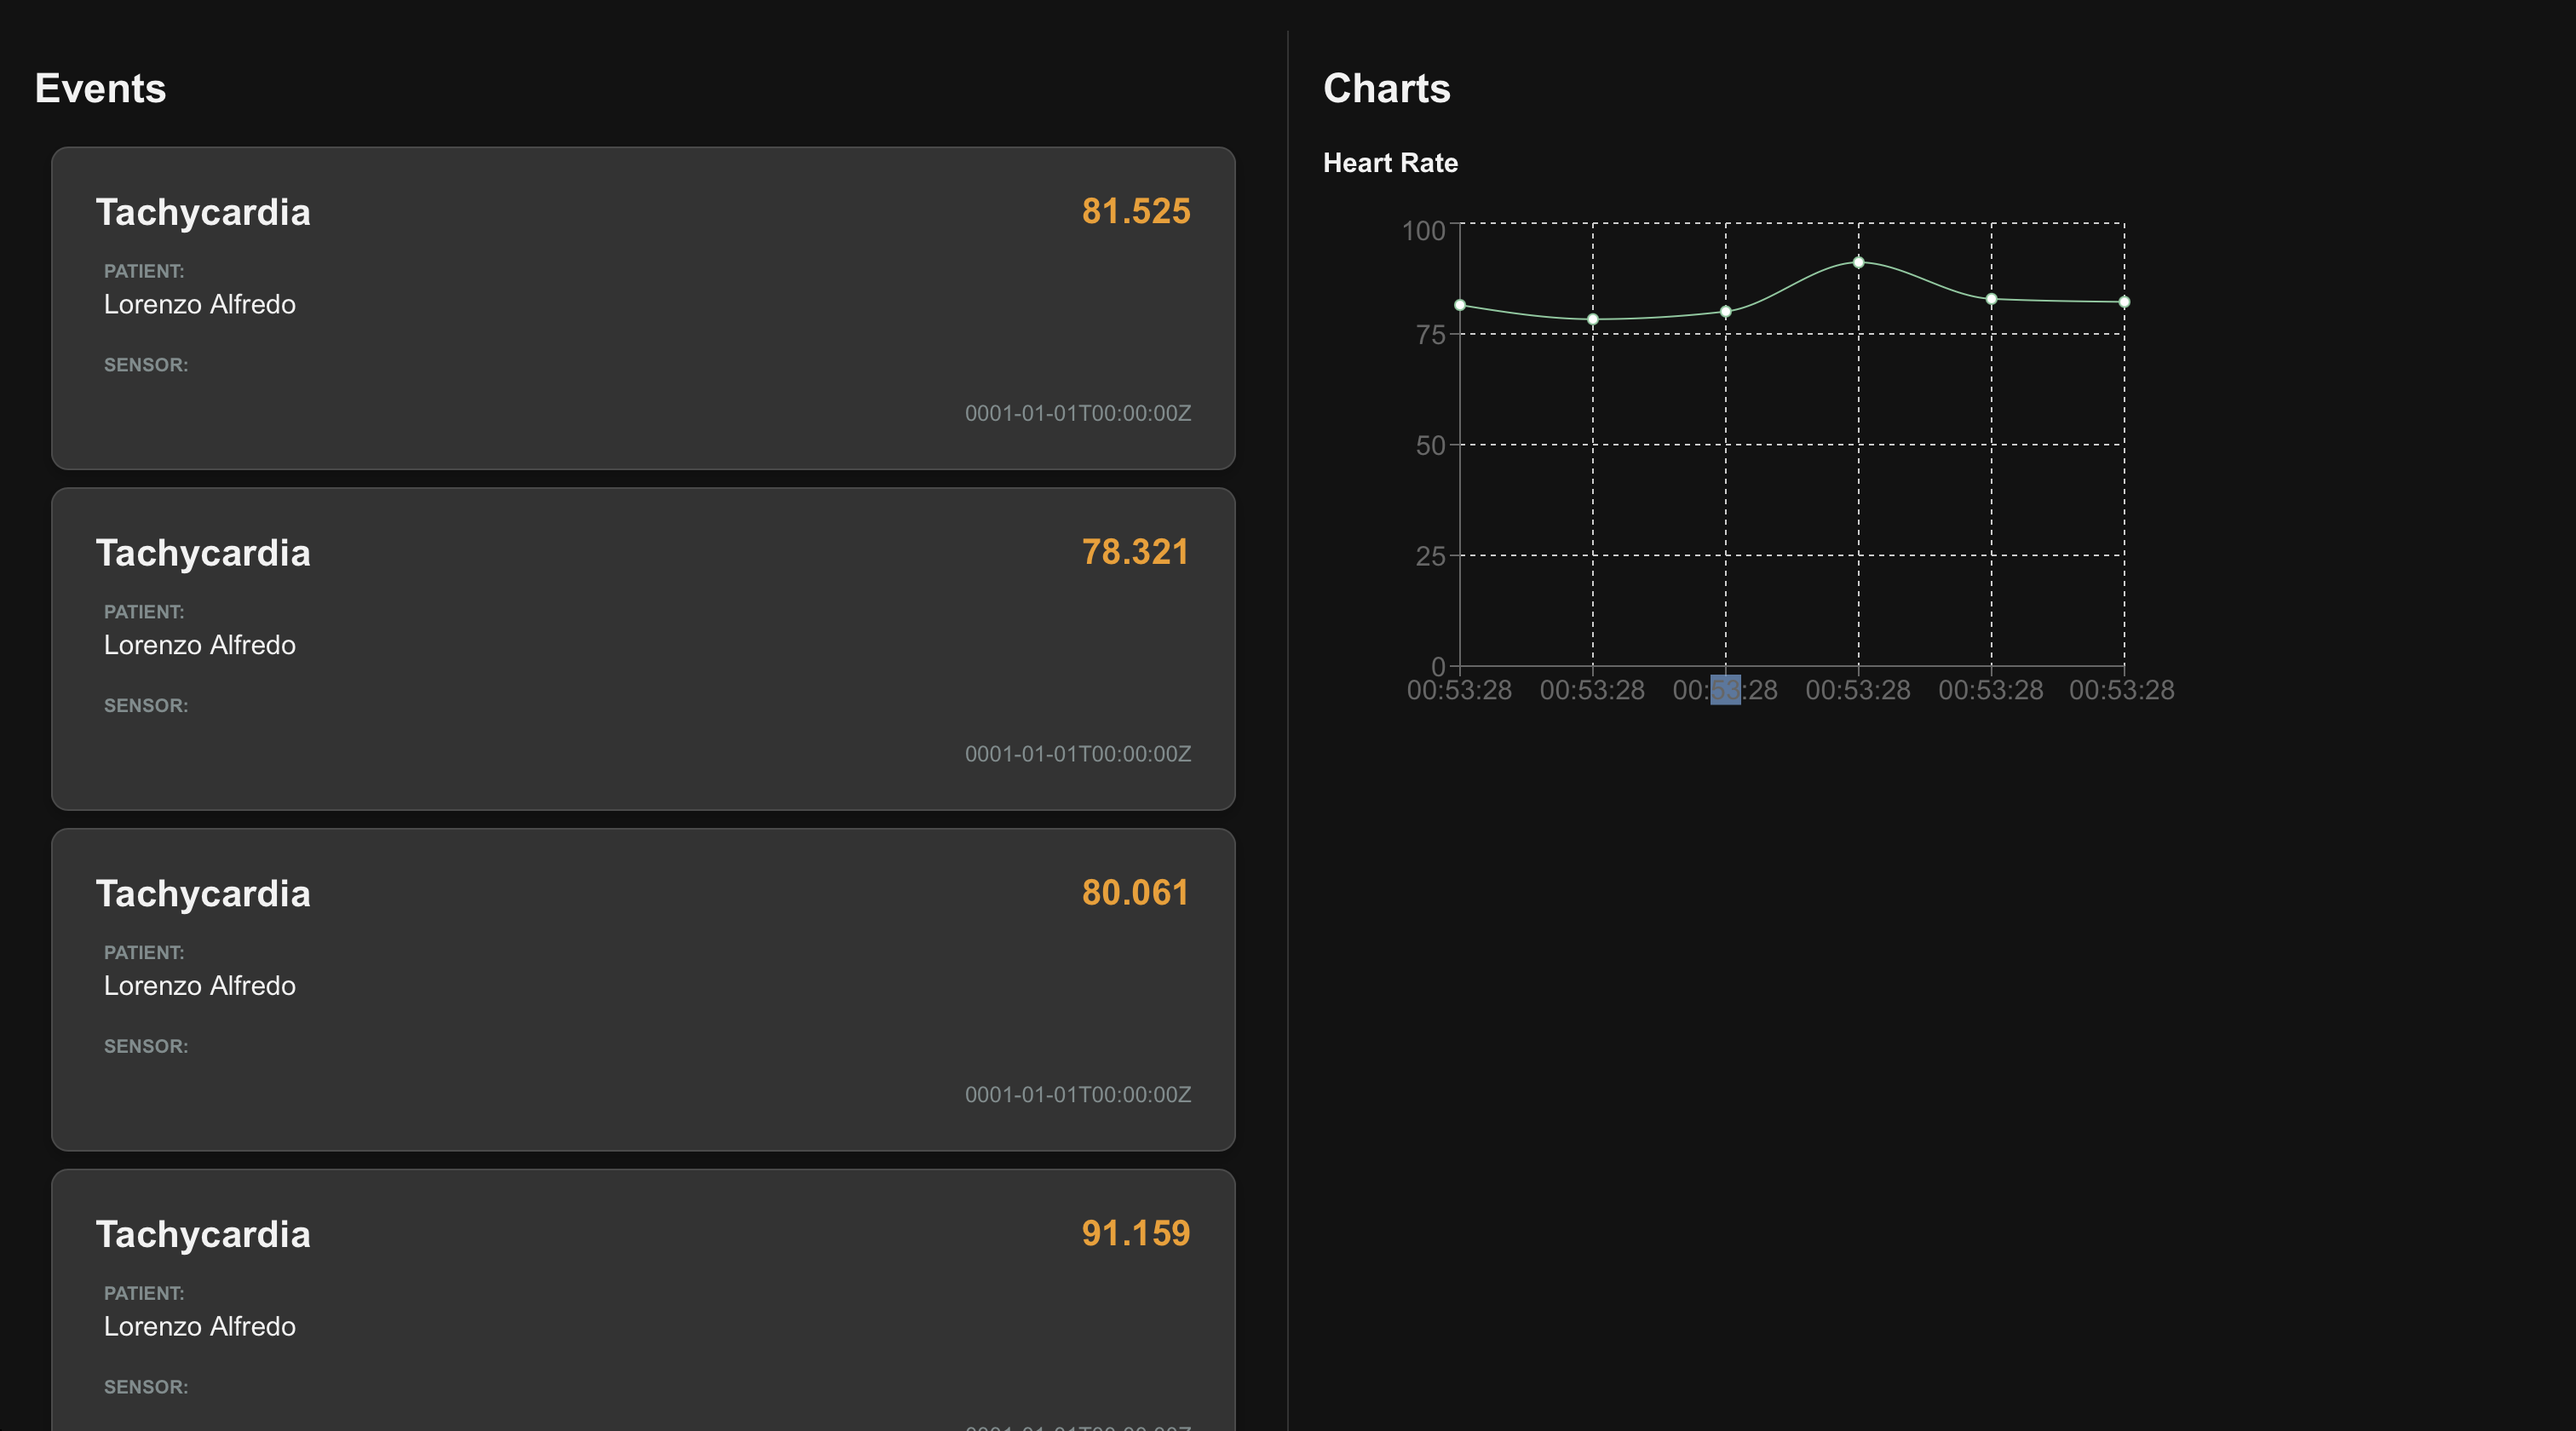
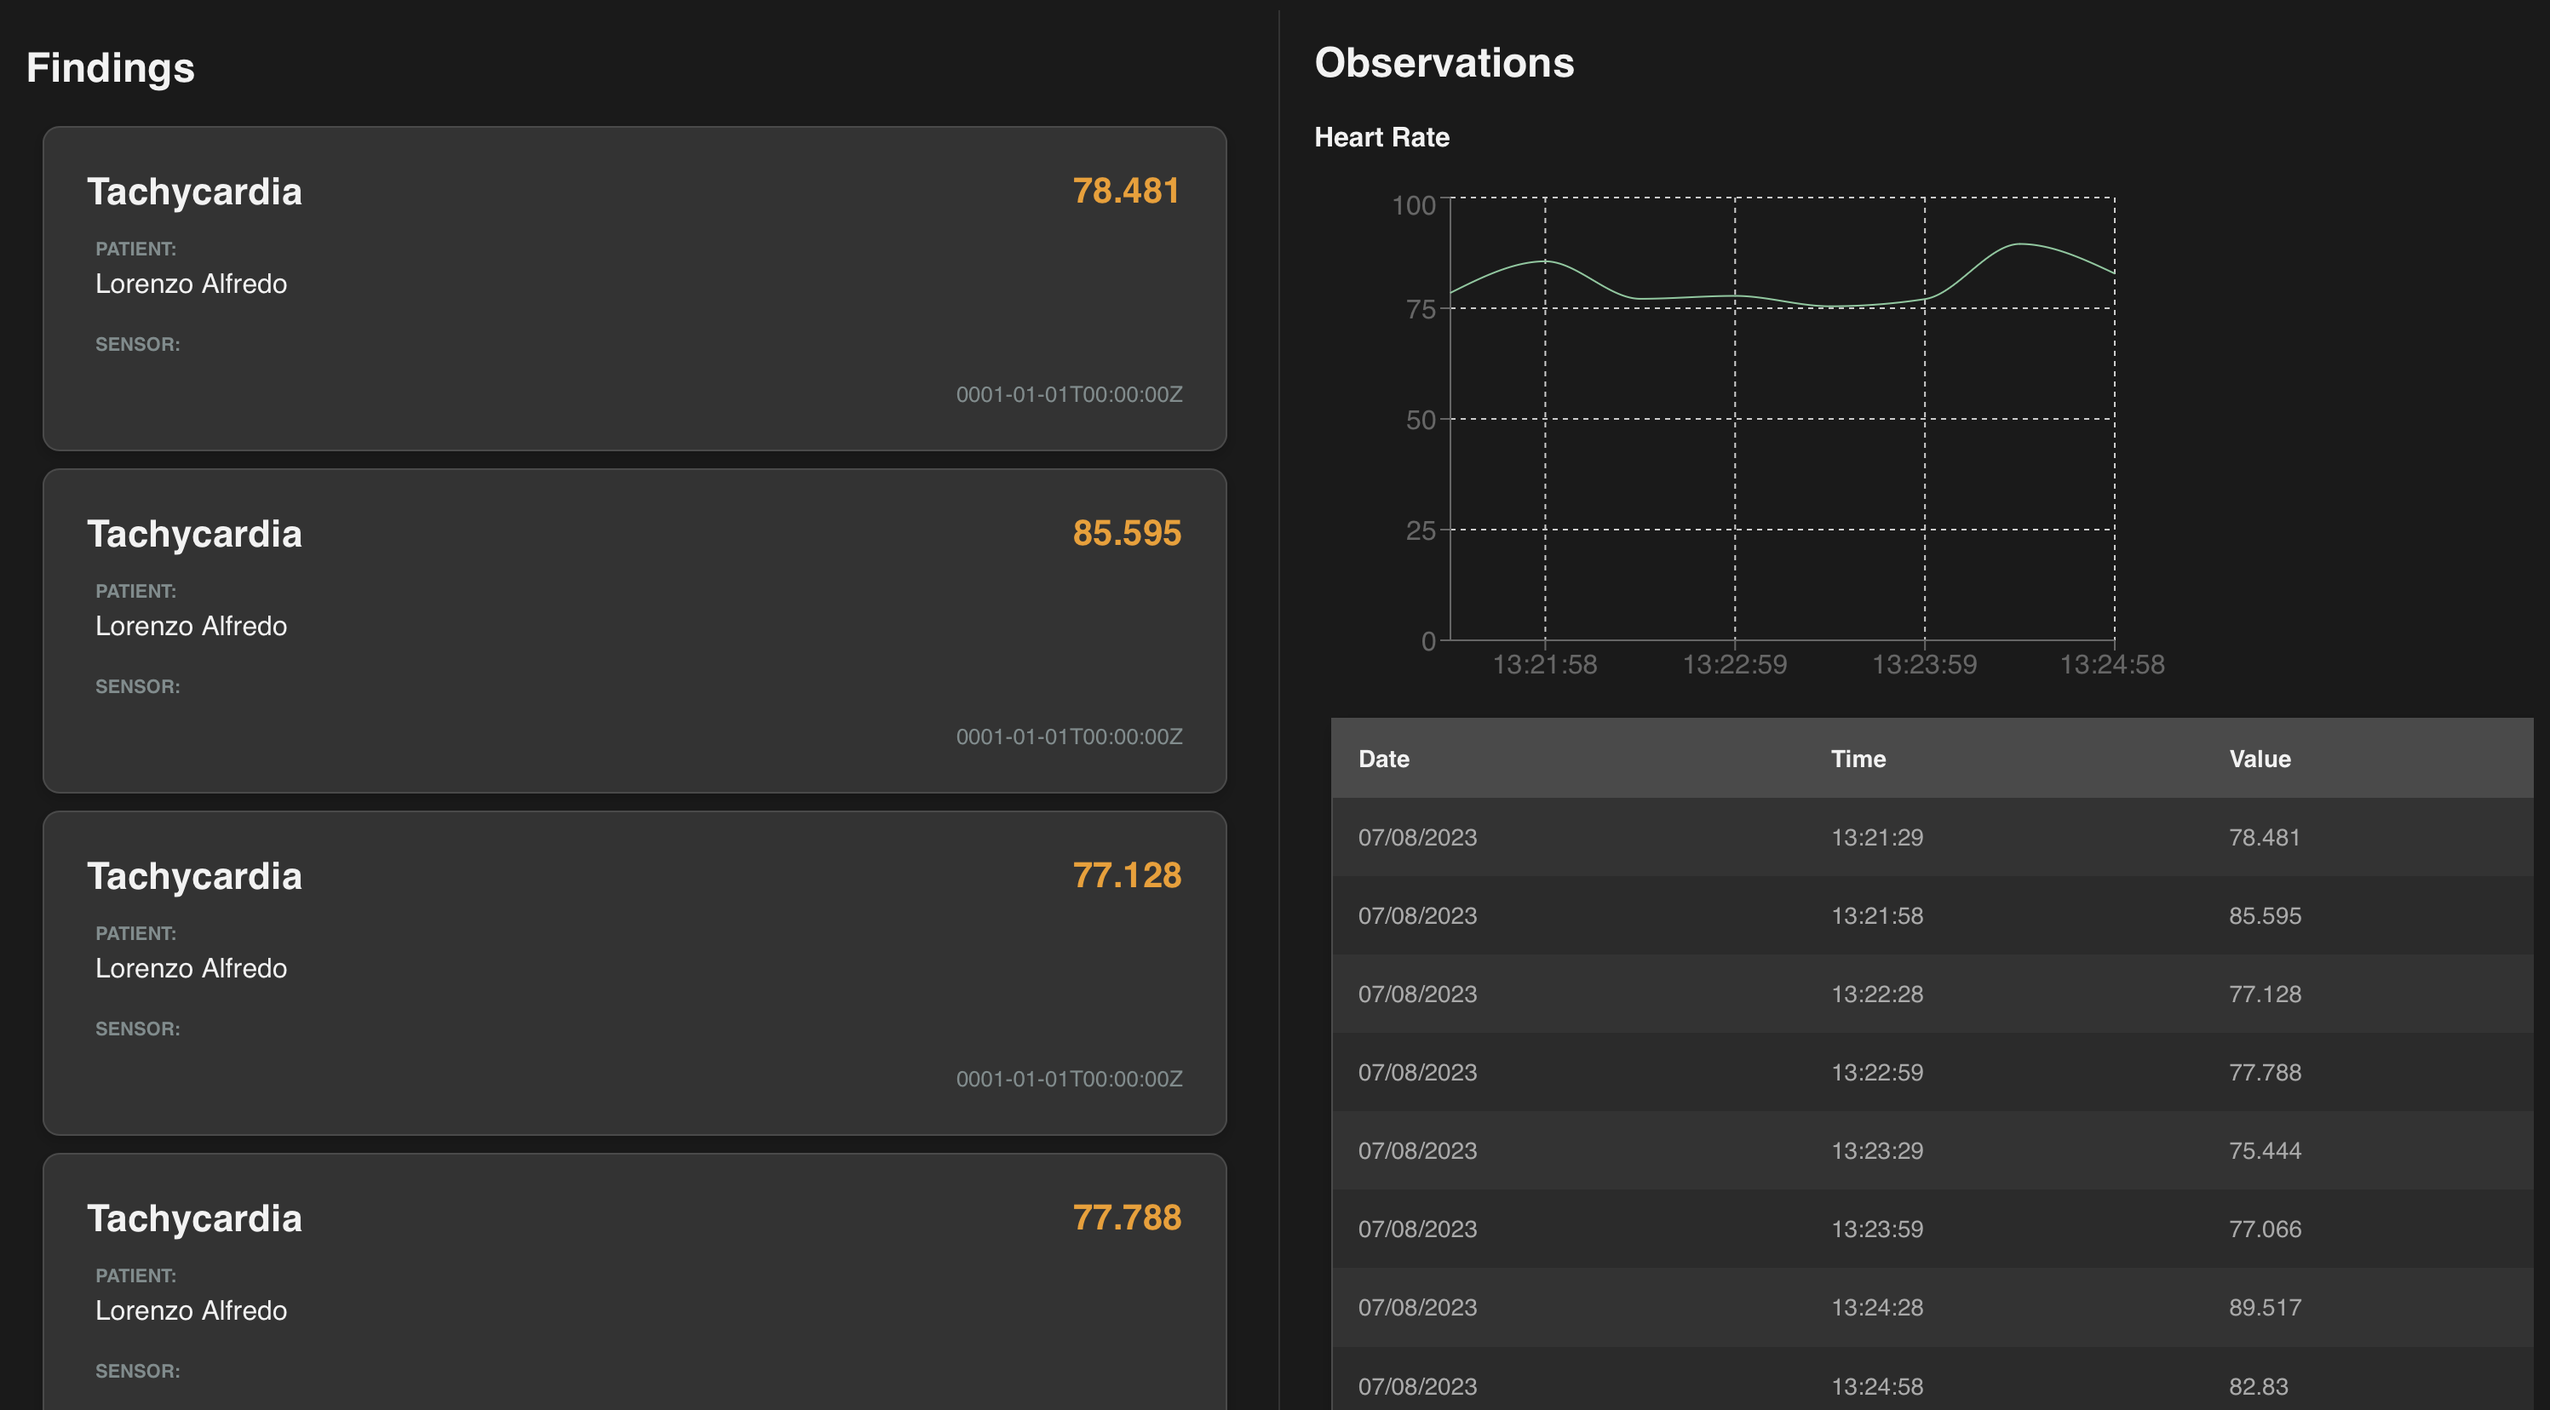
feat: show chart and observations table

diff --git a/frontend/src/Charts.tsx b/frontend/src/Charts.tsx
@@ -1,21 +1,22 @@
 import React from 'react';
 import { LineChart, Line, XAxis, YAxis, CartesianGrid, Tooltip } from 'recharts';
-import EventData from './EventData';
+import { TObservation } from './Types';
+import './Charts.css';
 
 interface ChartsProps {
-    data: EventData[];
+    observations: TObservation[];
 }
 
-const Charts: React.FC<ChartsProps> = ({ data }) => {
+const Charts: React.FC<ChartsProps> = ({ observations }) => {
     // Convert the data to the format needed by recharts
-    const chartData = data.map(event => ({
-        timestamp: new Date(event.timestamp).toLocaleTimeString(),
-        value: parseFloat(event.value)
+    const chartData = observations.map((obs: TObservation) => ({
+        timestamp: new Date(obs.timestamp).toLocaleTimeString(),
+        value: parseFloat(obs.value)
     }));
 
     return (
         <div>
-            <h2>Charts</h2>
+            <h2>Observations</h2>
 
             <h4>Heart Rate</h4>
 
@@ -31,6 +32,26 @@ const Charts: React.FC<ChartsProps> = ({ data }) => {
                 <Tooltip />
                 <Line type="monotone" dataKey="value" stroke="#82ca9d" />
             </LineChart>
+
+            {/* List with all obvervations */}
+            <table className="observations-table">
+                <thead>
+                    <tr>
+                        <th>Date</th>
+                        <th>Time</th>
+                        <th>Value</th>
+                    </tr>
+                </thead>
+                <tbody>
+                    {observations.map((obs: TObservation, index: number) => (
+                        <tr key={index}>
+                            <td>{new Date(obs.timestamp).toLocaleDateString()}</td>
+                            <td>{new Date(obs.timestamp).toLocaleTimeString()}</td>
+                            <td>{obs.value}</td>
+                        </tr>
+                    ))}
+                </tbody>
+            </table>
         </div>
     );
 }

diff --git a/frontend/src/App.tsx b/frontend/src/App.tsx
@@ -1,13 +1,12 @@
 import React, { useEffect, useState } from 'react';
-import Events from './Events';
+import Events from './Findings';
 import Charts from './Charts';
 import './App.css';
-import EventData from './EventData';
-
-
+import { TFinding, TObservation, TPackage } from './Types';
 
 function App() {
-  const [events, setEvents] = useState<EventData[]>([]);
+  const [findings, setFindings] = useState<TFinding[]>([]);
+  const [observations, setObservations] = useState<TObservation[]>([]);
   let running = false;
 
   useEffect(() => {
@@ -20,9 +19,18 @@ function App() {
 
       ws.onmessage = (event) => {
         try {
-          console.log("Received event: ", event.data);
-          const eventData = JSON.parse(event.data) as EventData;
-          setEvents((prevEvents) => [...prevEvents, eventData]);
+          console.log("Received package: ", event.data);
+          const pkg = JSON.parse(event.data) as TPackage;
+          if (pkg.type === "finding") {
+            let finding = pkg.data as TFinding;
+            setFindings((prevEvents) => [...prevEvents, finding]);
+          }
+          else if (pkg.type === "observation") {
+            let finding = pkg.data as TObservation;
+            setObservations((prevEvents) => [...prevEvents, pkg.data]);
+          }
+          else
+            console.error("Unknown package type: ", pkg.type);
         } catch (error) {
           console.error("Error parsing event data:", error);
         }
@@ -49,10 +57,10 @@ function App() {
   return (
     <div className="App">
       <div className="events-container">
-        <Events events={events} />
+        <Events findings={findings} />
       </div>
       <div className="charts-container">
-        <Charts data={events} />
+        <Charts observations={observations} />
       </div>
     </div>
   );

diff --git a/frontend/src/Findings.tsx b/frontend/src/Findings.tsx
@@ -1,0 +1,39 @@
+import React, { useEffect, useState } from "react";
+import "./Findings.css";
+import { TFinding } from "./Types";
+
+interface FindingsProps {
+    findings: TFinding[];
+}
+
+const Findings: React.FC<FindingsProps> = ({ findings }) => {
+    return (
+        <div>
+            <h2>Findings</h2>
+            {findings.length === 0 ? (
+                <div>Waiting for events...</div>
+            ) : (
+                findings.map((finding: TFinding, index: number) => (
+                    <div key={index} className="event-card">
+                        <p className="name">{finding.name}</p>
+                        <p className="value">{finding.value}</p>
+                        <div className="card-field">
+                            <p className="label">Patient:</p>
+                            <p className="patient">{finding.patient}</p>
+                        </div>
+                        <p></p>
+                        <div className="card-field">
+                            <p className="label">Sensor:</p>
+                            <p className="sensor">{finding.sensor}</p>
+                        </div>
+                        <p></p>
+                        <p className="timestamp">{finding.timestamp}</p>
+                    </div>
+
+                ))
+            )}
+        </div>
+    );
+}
+
+export default Findings;

diff --git a/frontend/src/Charts.css b/frontend/src/Charts.css
@@ -1,0 +1,32 @@
+body {
+    font-family: "Roboto", sans-serif;
+    background-color: #1a1a1a;
+    color: #f2f2f2;
+}
+
+table.observations-table {
+    width: 100%;
+    border-collapse: collapse;
+    border: 1px solid #4a4a4a;
+    border-radius: 10px;
+    margin: 10px;
+    background-color: #333;
+    box-shadow: 0px 3px 6px rgba(0, 0, 0, 0.2);
+}
+
+table.observations-table th,
+table.observations-table td {
+    padding: 15px;
+    color: #aaa;
+    font-size: 0.9em;
+    text-align: left;
+}
+
+table.observations-table th {
+    background-color: #4a4a4a;
+    color: #f2f2f2;
+}
+
+table.observations-table tr:nth-child(even) {
+    background-color: #2b2b2b;
+}

diff --git a/frontend/src/Types.tsx b/frontend/src/Types.tsx
@@ -1,0 +1,22 @@
+
+type TPackage = {
+    type: string;
+    data: TFinding | TObservation;
+};
+
+type TFinding = {
+    name: string;
+    patient: string;
+    sensor: string;
+    value: string;
+    timestamp: string;
+};
+
+type TObservation = {
+    name: string;
+    sensor: string;
+    value: string;
+    timestamp: string;
+};
+
+export type { TPackage, TFinding, TObservation };
